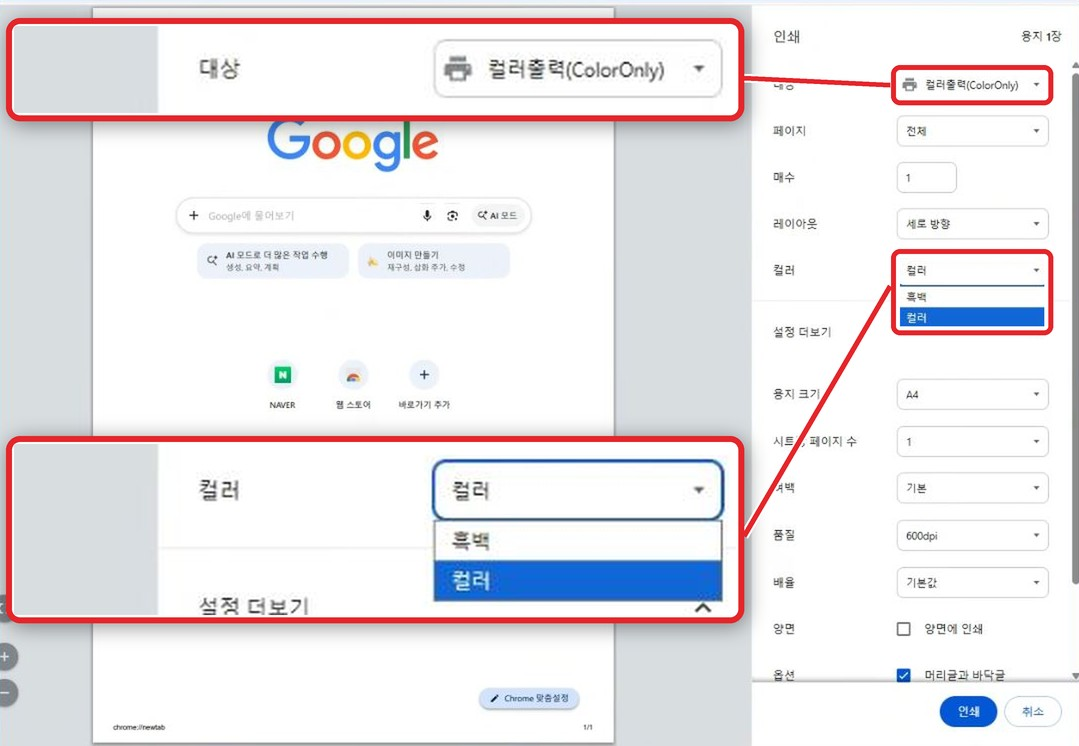
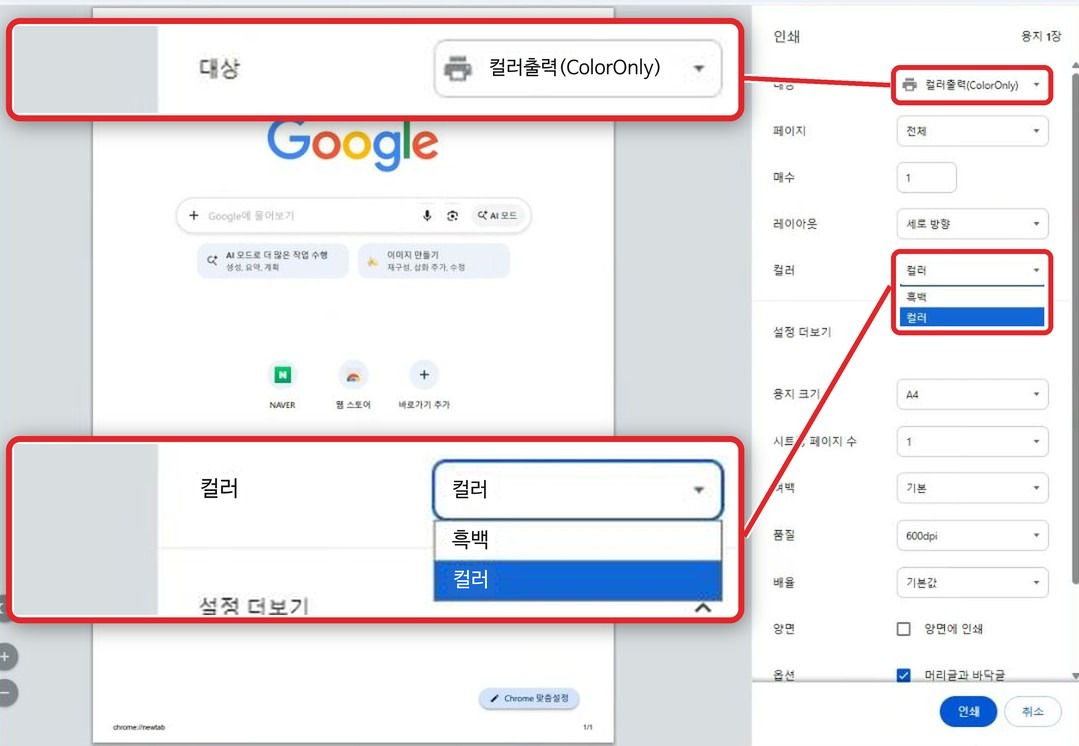
fix: 크롬 확대 말풍선 그림의 깨진 글자(흑백출력·컬러출력·컬러·A4·1·양면에 인쇄)를 선명하게 다시 씀

diff --git a/guide-print.html b/guide-print.html
@@ -628,7 +628,7 @@ footer{background:#111827;color:rgba(255,255,255,.55);padding:60px 6%}
       </div>
       <div class="step">
         <div class="step-no">2</div>
-        <div class="step-figs"><figure class="est-fig"><a href="images/print/chrome-lens-printer.jpg" target="_blank" rel="noopener"><img class="step-photo" src="images/print/chrome-lens-printer.jpg" alt="크롬 인쇄 화면 전체 사진. 대상을 누르면 기본으로 흑백출력이 나오고 아래에 더보기가 있는 모습을 돋보기처럼 확대해서 보여 주는 모습" loading="lazy"></a><figcaption class="est-cap">① <b>'대상'</b>을 누르면 기본으로 <b>흑백출력</b>이 나와요. 컬러출력이 없으면 <b>[더보기...]</b>를 누르세요 <span style="color:var(--text3);font-weight:600">(사진을 누르면 크게 열려요)</span></figcaption></figure><figure class="est-fig"><a href="images/print/chrome-lens-list.jpg" target="_blank" rel="noopener"><img class="step-photo" src="images/print/chrome-lens-list.jpg" alt="대상 선택 창에서 흑백출력(BlackOnly)과 컬러출력(ColorOnly)을 고르는 모습" loading="lazy"></a><figcaption class="est-cap">② 전체 프린터 목록에서 <b>흑백출력</b> 또는 <b>컬러출력</b>을 선택하세요 <span style="color:var(--text3);font-weight:600">(사진을 누르면 크게 열려요)</span></figcaption></figure><figure class="est-fig"><a href="images/print/chrome-lens-color.jpg" target="_blank" rel="noopener"><img class="step-photo" src="images/print/chrome-lens-color.jpg" alt="크롬 인쇄 화면 전체 사진. 컬러출력 프린터를 선택하고 컬러 칸에서 컬러를 선택하는 모습을 돋보기처럼 확대해서 보여 주는 모습" loading="lazy"></a><figcaption class="est-cap">③ <b>컬러출력</b>을 선택했다면 <b>'컬러'</b> 칸에서 <b>[컬러]</b>를 선택하고, 왼쪽 <b>미리보기가 컬러인지</b> 꼭 확인하세요 <span style="color:var(--text3);font-weight:600">(사진을 누르면 크게 열려요)</span></figcaption></figure></div>
+        <div class="step-figs"><figure class="est-fig"><a href="images/print/chrome-lens-printer.jpg" target="_blank" rel="noopener"><img class="step-photo" src="images/print/chrome-lens-printer.jpg" alt="크롬 인쇄 화면 전체 사진. 대상을 누르면 기본으로 흑백출력이 나오고 아래에 더보기가 있는 모습을 돋보기처럼 확대해서 보여 주는 모습" loading="lazy"></a><figcaption class="est-cap">① <b>'대상'</b>을 누르면 기본으로 <b>흑백출력</b>이 나와요. 컬러출력이 없으면 <b>[더보기...]</b>를 누르세요 <span style="color:var(--text3);font-weight:600">(사진을 누르면 크게 열려요)</span></figcaption></figure><figure class="est-fig"><a href="images/print/chrome-lens-list.jpg?v=2" target="_blank" rel="noopener"><img class="step-photo" src="images/print/chrome-lens-list.jpg?v=2" alt="대상 선택 창에서 흑백출력(BlackOnly)과 컬러출력(ColorOnly)을 고르는 모습" loading="lazy"></a><figcaption class="est-cap">② 전체 프린터 목록에서 <b>흑백출력</b> 또는 <b>컬러출력</b>을 선택하세요 <span style="color:var(--text3);font-weight:600">(사진을 누르면 크게 열려요)</span></figcaption></figure><figure class="est-fig"><a href="images/print/chrome-lens-color.jpg?v=2" target="_blank" rel="noopener"><img class="step-photo" src="images/print/chrome-lens-color.jpg?v=2" alt="크롬 인쇄 화면 전체 사진. 컬러출력 프린터를 선택하고 컬러 칸에서 컬러를 선택하는 모습을 돋보기처럼 확대해서 보여 주는 모습" loading="lazy"></a><figcaption class="est-cap">③ <b>컬러출력</b>을 선택했다면 <b>'컬러'</b> 칸에서 <b>[컬러]</b>를 선택하고, 왼쪽 <b>미리보기가 컬러인지</b> 꼭 확인하세요 <span style="color:var(--text3);font-weight:600">(사진을 누르면 크게 열려요)</span></figcaption></figure></div>
         <div class="est-txt">
           <div class="step-h">프린터(대상) 선택</div>
           <p class="step-p">오른쪽 설정 창에서 <b>'대상'</b>이 프린터를 고르는 곳이에요. 누르면 기본으로 <b>흑백출력</b> 프린터가 나와요.<br><b>컬러출력</b>이 안 보이면 아래의 <b>[더보기...]</b>를 누르세요. 전체 프린터 목록이 나와요.<br><b>흑백출력</b> 또는 <b>컬러출력</b> 프린터를 선택하세요.</p><div class="step-note warn">⚠ <b>컬러출력 프린터</b>를 선택했다면 <b>'컬러'</b> 칸(레이아웃 아래)에서 <b>[컬러]</b>를 선택하세요. 그리고 왼쪽 <b>미리보기가 컬러인지</b>, 인쇄할 <b>모든 페이지가 컬러로 나오는지</b> 반드시 확인하세요.</div>
@@ -636,7 +636,7 @@ footer{background:#111827;color:rgba(255,255,255,.55);padding:60px 6%}
       </div>
       <div class="step">
         <div class="step-no">3</div>
-        <div class="step-figs"><figure class="est-fig"><a href="images/print/chrome-lens-options.jpg" target="_blank" rel="noopener"><img class="step-photo" src="images/print/chrome-lens-options.jpg" alt="크롬 인쇄 화면 전체 사진. 용지 크기, 시트당 페이지 수, 양면 옵션을 돋보기처럼 확대해서 보여 주는 모습" loading="lazy"></a><figcaption class="est-cap">🔍 빨간 ✔ 표시한 곳을 확인하세요: <b>용지 크기 · 시트당 페이지 수 · 양면</b> <span style="color:var(--text3);font-weight:600">(사진을 누르면 크게 열려요)</span></figcaption></figure></div>
+        <div class="step-figs"><figure class="est-fig"><a href="images/print/chrome-lens-options.jpg?v=2" target="_blank" rel="noopener"><img class="step-photo" src="images/print/chrome-lens-options.jpg?v=2" alt="크롬 인쇄 화면 전체 사진. 용지 크기, 시트당 페이지 수, 양면 옵션을 돋보기처럼 확대해서 보여 주는 모습" loading="lazy"></a><figcaption class="est-cap">🔍 빨간 ✔ 표시한 곳을 확인하세요: <b>용지 크기 · 시트당 페이지 수 · 양면</b> <span style="color:var(--text3);font-weight:600">(사진을 누르면 크게 열려요)</span></figcaption></figure></div>
         <div class="est-txt">
           <div class="step-h">인쇄 옵션 선택 · 확인</div>
           <p class="step-p"><b>[설정 더보기]</b>를 누르면 <b>용지 크기, 양면, 시트당 페이지 수</b> 등 인쇄 옵션이 나와요. 원하는 대로 선택하거나 확인하세요.</p>
